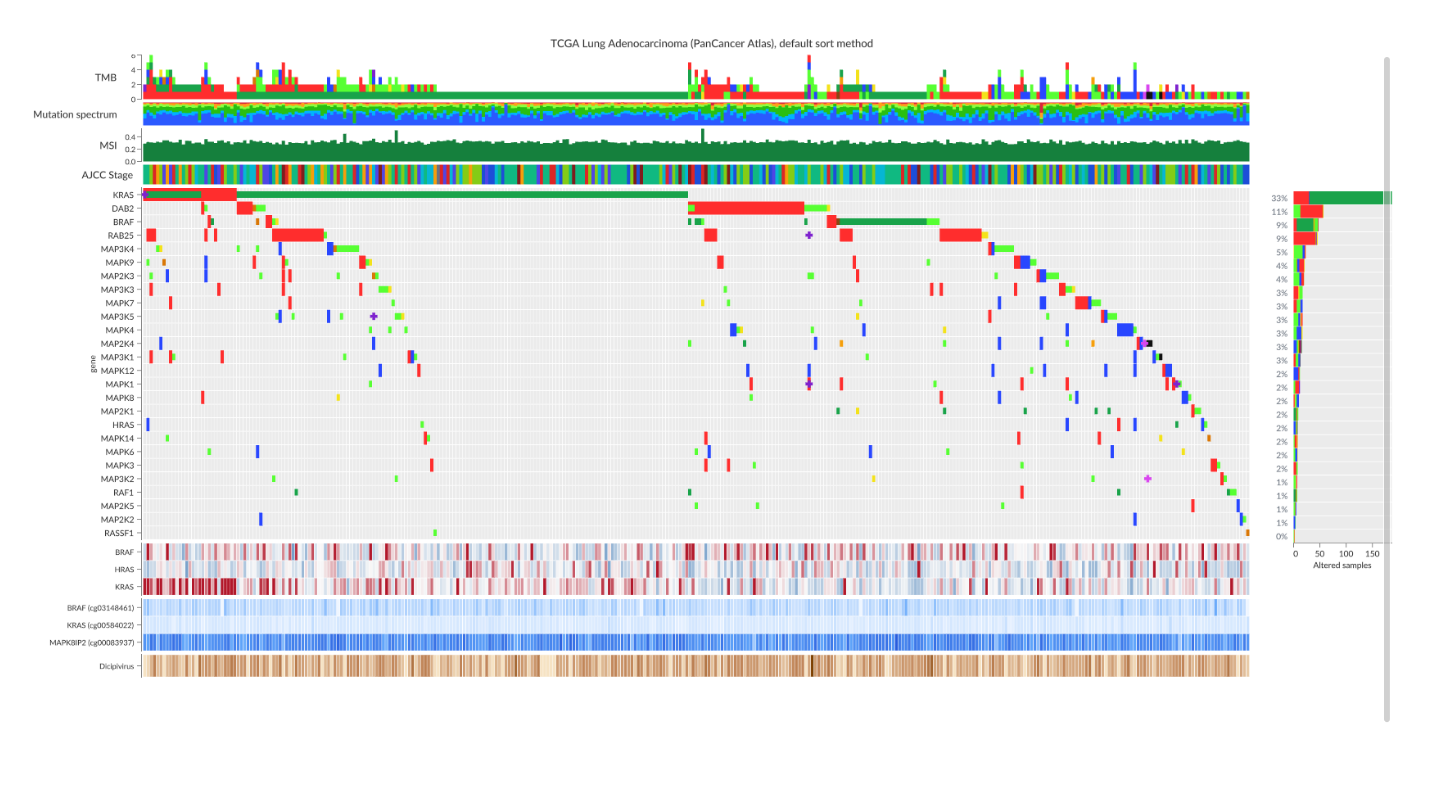
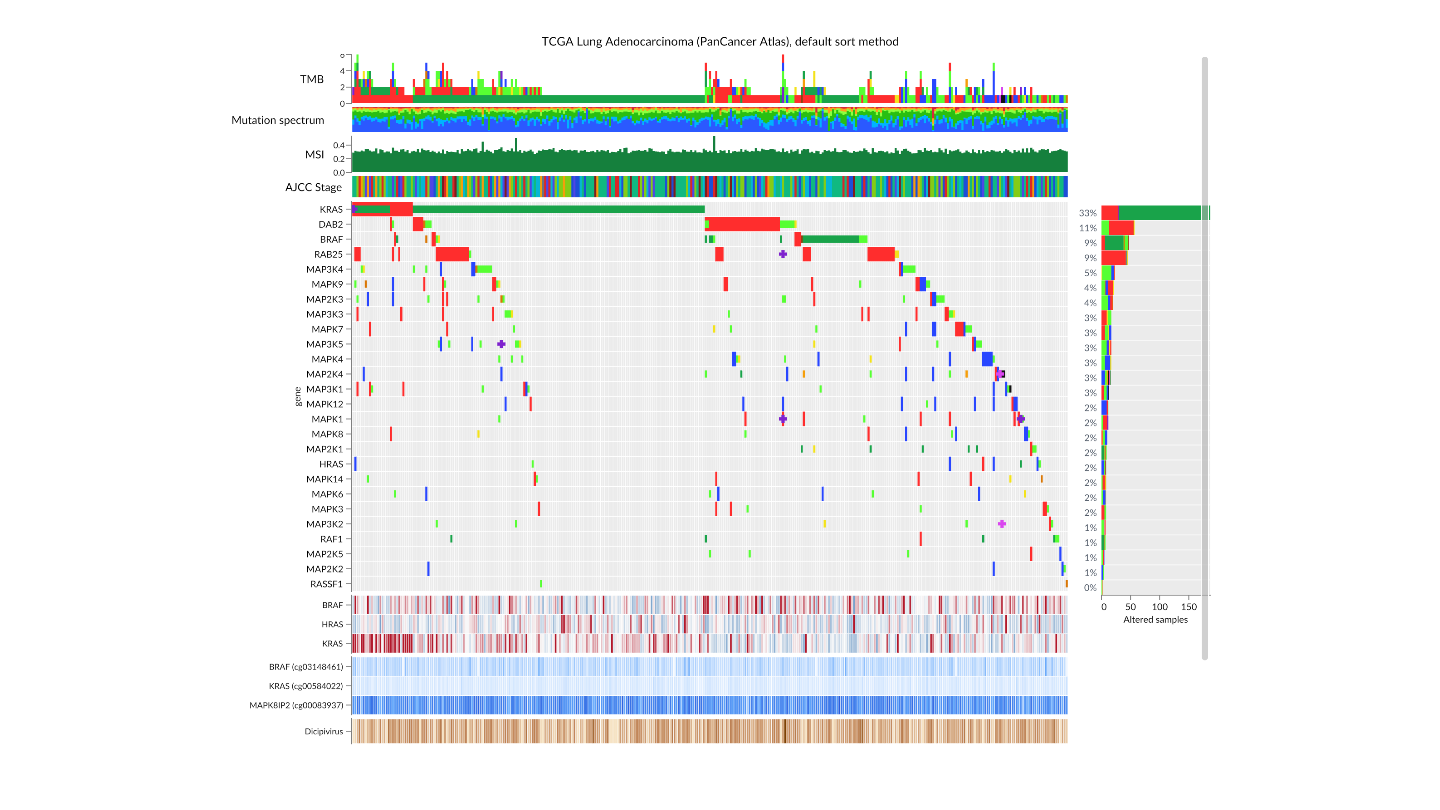
fix(gallery): improve browser and LUAD examples

diff --git a/docs/examples/stacked_genome_browser.py b/docs/examples/stacked_genome_browser.py
@@ -20,18 +20,27 @@ DOMAIN = [
     {"chrom": "chr7", "pos": 55100000},
     {"chrom": "chr7", "pos": 55120000},
 ]
+CCRE_WINDOW_SIZE = 1_000_000
+
+signal_tooltip = [
+    gs.Tooltip("chrom:N").title("Chromosome"),
+    gs.Tooltip("start:Q").title("Start").format(",d"),
+    gs.Tooltip("end:Q").title("End").format(",d"),
+    gs.Tooltip("score:Q").title("Value"),
+]
 
 
 # Show GC content, loading just the region being viewed.
 gc_track = (
     gs.Chart(gs.lazy.bigwig("https://data.genomespy.app/genomes/hg38/hg38.gc5Base.bw"))
-    .mark_rect(color="#6c8ebf", minWidth=0.5, minOpacity=1, tooltip=None)
+    .mark_rect(color="#6c8ebf", minWidth=0.5, minOpacity=1)
     .encode(
         x=gs.Locus("chrom", "start"),
         x2=gs.Locus("chrom", "end"),
         y=gs.Y("score:Q")
         .scale(domain=[0, 100])
         .axis(title=None, grid=True, gridDash=[2, 2]),
+        tooltip=signal_tooltip,
     )
     .properties(
         name="gc-content", title=gs.title("GC (%)", style="track-title"), height=80
@@ -47,13 +56,14 @@ conservation_track = (
             "hg38.phyloP100way.bw"
         )
     )
-    .mark_rect(color="#c77c8a", opacity=0.75, minWidth=0.5, tooltip=None)
+    .mark_rect(color="#c77c8a", opacity=0.75, minWidth=0.5)
     .encode(
         x=gs.Locus("chrom", "start"),
         x2=gs.Locus("chrom", "end"),
         y=gs.Y("score:Q")
         .scale(domain=[-5, 5])
         .axis(title=None, grid=True, gridDash=[2, 2]),
+        tooltip=signal_tooltip,
     )
     .properties(
         name="phylop-100way",
@@ -63,30 +73,50 @@ conservation_track = (
 )
 
 
-# Color candidate regulatory regions by type. The loading window is large
-# enough to cover the starting region when the reader zooms back out.
-ccre_track = (
+# Color candidate regulatory regions by type.
+ccre_marks = (
     gs.Chart(
         gs.lazy.bigbed(
             "https://data.genomespy.app/sample-data/encodeCcreCombined.hg38.bb",
-            windowSize=30_000,
+            windowSize=CCRE_WINDOW_SIZE,
         )
     )
-    .mark_rect(minWidth=0.5, tooltip=None)
+    .mark_rect(minWidth=0.5)
     .encode(
         x=gs.Locus("chrom", "chromStart"),
         x2=gs.Locus("chrom", "chromEnd"),
-        color=gs.Color("ucscLabel:N").scale(
+        color=gs.Color("ucscLabel:N")
+        .scale(
             domain=["prom", "enhP", "enhD", "K4m3", "CTCF"],
             range=["#e45756", "#f2a541", "#f6cf65", "#d99ac5", "#4f9fc4"],
-        ),
+        )
+        .legend(title="cCRE type", columns=2),
+        tooltip=[
+            gs.Tooltip("name:N").title("cCRE"),
+            gs.Tooltip("ucscLabel:N").title("Type"),
+            gs.Tooltip("chrom:N").title("Chromosome"),
+            gs.Tooltip("chromStart:Q").title("Start").format(",d"),
+            gs.Tooltip("chromEnd:Q").title("End").format(",d"),
+        ],
     )
-    .properties(name="ccre", title=gs.title("cCRE", style="track-title"), height=32)
+)
+ccre_zoom_message = (
+    gs.Chart([{}])
+    .mark_text(text="Zoom in to see cCREs", color="#555", size=12, tooltip=None)
+    .encode(x=gs.value(0.5), y=gs.value(0.5))
+)
+ccre_track = gs.multiscale(
+    ccre_zoom_message,
+    ccre_marks,
+    stops=[gs.expr(CCRE_WINDOW_SIZE / gs.expr.max(gs.Expression("width"), 1))],
+    name="ccre",
+    title=gs.title("cCRE", style="track-title"),
+    height=32,
 )
 
 
 # Draw each DNA base as a colored tile with its letter on top.
-sequence_rects = gs.Chart().mark_rect(tooltip=None)
+sequence_rects = gs.Chart().mark_rect()
 sequence_labels = (
     gs.Chart()
     .mark_text(
@@ -96,7 +126,6 @@ sequence_labels = (
         paddingY=1,
         opacity=0.7,
         flushX=False,
-        tooltip=None,
     )
     .encode(color=gs.value("black"), text=gs.Text("base:N"))
 )
@@ -115,23 +144,27 @@ sequence_track = (
     )
     .encode(
         x=gs.Locus("chrom", "pos"),
-        color=gs.Color("base:N").scale(
-            domain=["A", "C", "T", "G", "a", "c", "t", "g", "N"],
+        color=gs.Color("base:N")
+        .scale(
+            domain=["A", "C", "T", "G", "N"],
             range=[
-                "#7BD56C",
-                "#FF9B9B",
-                "#86BBF1",
-                "#FFC56C",
                 "#7BD56C",
                 "#FF9B9B",
                 "#86BBF1",
                 "#FFC56C",
                 "#E0E0E0",
             ],
-        ),
+        )
+        .legend(title="DNA base", columns=2),
+        tooltip=[
+            gs.Tooltip("chrom:N").title("Chromosome"),
+            gs.Tooltip("pos:Q").title("Position").format(",d"),
+            gs.Tooltip("base:N").title("Base"),
+        ],
     )
     # Give each base its own row and genomic position.
     .transform_flatten_sequence(field="sequence", as_=["rawPos", "base"])
+    .transform_formula(expr=gs.expr.upper(gs.datum.base), as_="base")
     .transform_formula(expr=gs.datum.rawPos + gs.datum.start, as_="pos")
 )
 
@@ -139,9 +172,17 @@ sequence_track = (
 # Draw exon blocks along each transcript.
 exons = (
     gs.Chart()
-    .mark_rect(minOpacity=0.2, minWidth=0.5, tooltip=None)
-    .encode(x=gs.X("exonStart:L"), x2=gs.X2("exonEnd"))
-    .transform_project(fields=["_lane", "_start", "exons"])
+    .mark_rect(minOpacity=0.2, minWidth=0.5)
+    .encode(
+        x=gs.X("exonStart:L"),
+        x2=gs.X2("exonEnd"),
+        tooltip=[
+            gs.Tooltip("symbol:N").title("Gene"),
+            gs.Tooltip("exonStart:Q").title("Exon start").format(",d"),
+            gs.Tooltip("exonEnd:Q").title("Exon end").format(",d"),
+        ],
+    )
+    .transform_project(fields=["symbol", "_lane", "_start", "exons"])
     .transform_flatten_compressed_exons(start="_start")
     .properties(name="exons")
 )
@@ -149,11 +190,17 @@ exons = (
 # Connect the exons with a thin line spanning the transcript.
 bodies = (
     gs.Chart()
-    .mark_rule(minLength=0.5, size=1, tooltip=None)
+    .mark_rule(minLength=0.5, size=1)
     .encode(
         x=gs.X("_start:L"),
         x2=gs.X2("_end"),
         search=gs.Search("symbol"),
+        tooltip=[
+            gs.Tooltip("symbol:N").title("Gene"),
+            gs.Tooltip("chrom:N").title("Chromosome"),
+            gs.Tooltip("start:Q").title("Start").format(",d"),
+            gs.Tooltip("strand:N").title("Strand"),
+        ],
     )
     .properties(name="bodies", title="Gene annotations")
 )

diff --git a/tests/test_docs_gallery.py b/tests/test_docs_gallery.py
@@ -218,6 +218,7 @@ def test_luad_oncoprint_uses_sample_index_scale_and_categorical_genes() -> None:
 
     assert example.spec["viewportHeight"] == "container"
     assert example.height == 720
+    assert example.thumbnail_width == 1100
     center_column, summary_column = example.spec["concat"]
     sample_tracks = center_column["vconcat"][0]
     matrix_panel = sample_tracks["vconcat"][4]
@@ -910,16 +911,58 @@ def test_stacked_genome_browser_uses_shared_hg38_locus() -> None:
     ]
     assert tracks[0]["encoding"]["y"]["axis"]["title"] is None
     assert tracks[1]["encoding"]["y"]["axis"]["title"] is None
-    assert [track["data"]["lazy"]["type"] for track in tracks[:4]] == [
+    assert [track["data"]["lazy"]["type"] for track in tracks[:2]] == [
         "bigwig",
         "bigwig",
-        "bigbed",
-        "indexedFasta",
     ]
-    assert tracks[2]["data"]["lazy"]["windowSize"] == 30_000
+    assert tracks[2]["stops"] == [{"expr": "(1000000 / max(width,1))"}]
+    assert tracks[2]["multiscale"][0]["mark"]["text"] == "Zoom in to see cCREs"
+    ccre_marks = tracks[2]["multiscale"][1]
+    assert ccre_marks["data"]["lazy"] == {
+        "type": "bigbed",
+        "url": "https://data.genomespy.app/sample-data/encodeCcreCombined.hg38.bb",
+        "windowSize": 1_000_000,
+    }
     assert tracks[3]["data"]["lazy"]["windowSize"] == 30_000
-    assert "y" not in tracks[2]["encoding"]
+    assert "y" not in ccre_marks["encoding"]
     assert "y" not in tracks[3]["encoding"]
+    assert ccre_marks["encoding"]["color"]["legend"] == {
+        "columns": 2,
+        "title": "cCRE type",
+    }
+    assert tracks[3]["encoding"]["color"] == {
+        "field": "base",
+        "type": "nominal",
+        "scale": {
+            "domain": ["A", "C", "T", "G", "N"],
+            "range": ["#7BD56C", "#FF9B9B", "#86BBF1", "#FFC56C", "#E0E0E0"],
+        },
+        "legend": {"columns": 2, "title": "DNA base"},
+    }
+    assert tracks[3]["transform"][1] == {
+        "type": "formula",
+        "as": "base",
+        "expr": "upper(datum.base)",
+    }
+    assert [field["field"] for field in tracks[0]["encoding"]["tooltip"]] == [
+        "chrom",
+        "start",
+        "end",
+        "score",
+    ]
+    assert [field["field"] for field in ccre_marks["encoding"]["tooltip"]] == [
+        "name",
+        "ucscLabel",
+        "chrom",
+        "chromStart",
+        "chromEnd",
+    ]
+    assert [field["field"] for field in tracks[3]["encoding"]["tooltip"]] == [
+        "chrom",
+        "pos",
+        "base",
+    ]
+    assert "tooltip" not in tracks[3]["layer"][1]["mark"]
     assert tracks[4]["data"]["url"].endswith("refSeqGenes-hg38-release232.tsv.gz")
     assert tracks[4]["transform"][-1] == {
         "type": "filter",

diff --git a/docs/examples/luad_oncoprint.py b/docs/examples/luad_oncoprint.py
@@ -16,6 +16,7 @@ META = {
     "order": 35,
     "height": 720,
     "max_width": 1680,
+    "thumbnail_width": 1100,
 }
 
 CLASS_ORDER = [
